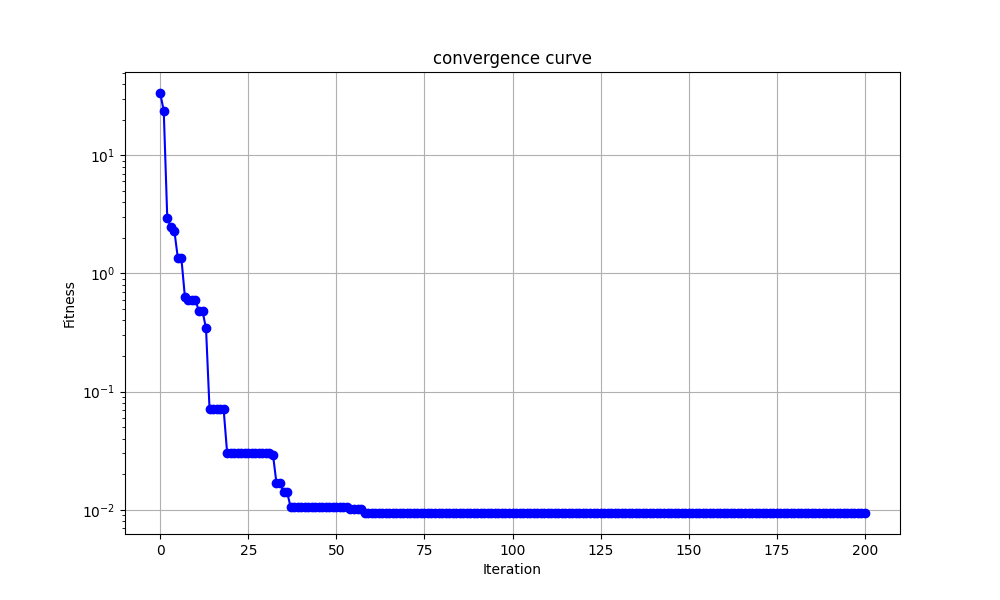
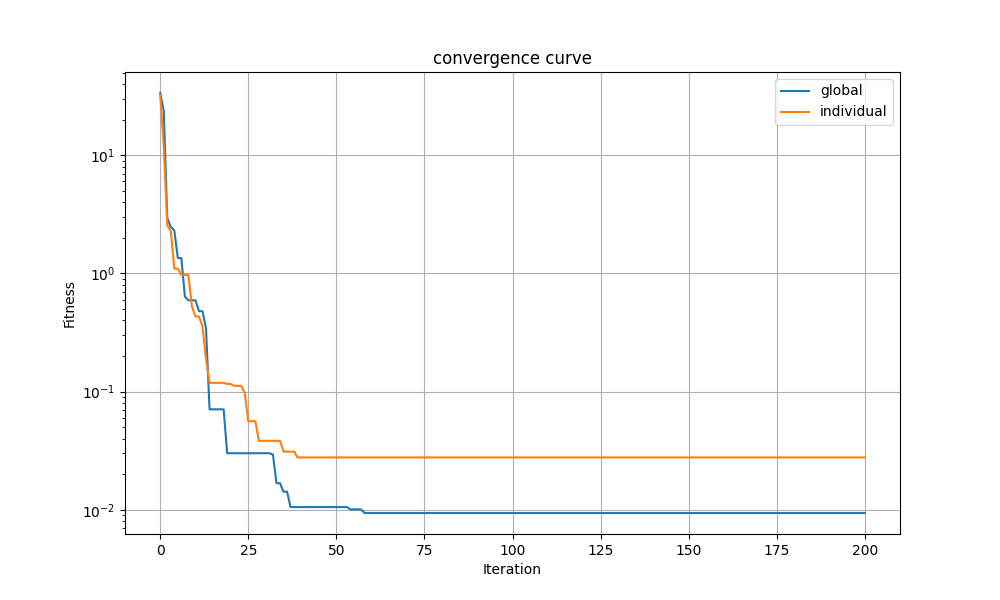
update for 2 mode

Changed region(s): [[0.155, 0.15, 0.868, 0.81], [0.279, 0.81, 0.868, 0.87], [0.775, 0.12, 0.899, 0.21]]

diff --git a/src/benchmark.py b/src/benchmark.py
@@ -20,7 +20,7 @@ def _evaluate_population(population, objective_function):
 
 
 def _run_single(objective_function, n_bats, dim, bounds, iterations,
-                f_min, f_max, alpha, gamma, seed):
+                f_min, f_max, alpha, gamma, seed, behavior_mode):
     if seed is not None:
         np.random.seed(seed)
 
@@ -54,7 +54,7 @@ def _run_single(objective_function, n_bats, dim, bounds, iterations,
                 best_fitness = bat.best_fitness
                 best_solution = bat.best_position.copy()
 
-        update_behavior(population, iteration=iteration, alpha=alpha, gamma=gamma, mode="individual")
+        update_behavior(population, iteration=iteration, alpha=alpha, gamma=gamma, mode=behavior_mode)
         fitness_history.append(best_fitness)
 
     return best_solution, best_fitness, fitness_history
@@ -70,9 +70,11 @@ def benchmark(objective_function=sphere,
               f_max=2.0,
               alpha=0.9,
               gamma=0.9,
+              behavior_mode="individual",
               seed=None,
               plot=True,
-              verbose=True):
+              verbose=True,
+              return_best_history=False):
     run_results = []
 
     for run_idx in range(n_runs):
@@ -88,11 +90,12 @@ def benchmark(objective_function=sphere,
             alpha=alpha,
             gamma=gamma,
             seed=run_seed,
+            behavior_mode=behavior_mode,
         )
         run_results.append((best_solution, best_fitness, fitness_history))
 
         if verbose:
-            print(f"Run {run_idx + 1}/{n_runs} - Best Fitness: {best_fitness:.6e}")
+            print(f"[{behavior_mode}] Run {run_idx + 1}/{n_runs} - Best Fitness: {best_fitness:.6e}")
 
     best_idx = int(np.argmin([result[1] for result in run_results]))
     best_solution, best_fitness, best_history = run_results[best_idx]
@@ -100,7 +103,7 @@ def benchmark(objective_function=sphere,
 
     if verbose:
         print("=" * 60)
-        print(f"Benchmark finished over {n_runs} runs")
+        print(f"Benchmark ({behavior_mode}) finished over {n_runs} runs")
         print(f"Best run index : {best_idx + 1}")
         print(f"Best fitness   : {best_fitness:.6e}")
         print(f"Mean fitness   : {all_fitness.mean():.6e}")
@@ -108,6 +111,60 @@ def benchmark(objective_function=sphere,
         print("=" * 60)
 
     if plot:
-        default_plot_fitness(best_history)
+        default_plot_fitness({behavior_mode: best_history})
+
+    if return_best_history:
+        return best_solution, best_fitness, best_history
 
     return best_solution, best_fitness
+
+
+def benchmark_both_modes(objective_function=sphere,
+                         n_bats=30,
+                         dim=10,
+                         bounds=(-5.0, 5.0),
+                         iterations=1000,
+                         n_runs=10,
+                         f_min=0.0,
+                         f_max=2.0,
+                         alpha=0.9,
+                         gamma=0.9,
+                         seed=None,
+                         plot=True,
+                         verbose=True):
+    mode_results = {}
+    mode_histories = {}
+
+    for mode in ["global", "individual"]:
+        mode_seed = seed if seed is None else seed + (0 if mode == "global" else 10000)
+        best_solution, best_fitness, best_history = benchmark(
+            objective_function=objective_function,
+            n_bats=n_bats,
+            dim=dim,
+            bounds=bounds,
+            iterations=iterations,
+            n_runs=n_runs,
+            f_min=f_min,
+            f_max=f_max,
+            alpha=alpha,
+            gamma=gamma,
+            behavior_mode=mode,
+            seed=mode_seed,
+            plot=False,
+            verbose=verbose,
+            return_best_history=True,
+        )
+        mode_results[mode] = (best_solution, best_fitness)
+        mode_histories[mode] = best_history
+
+    if verbose:
+        print("=" * 60)
+        print("Mode comparison summary")
+        print(f"Global best fitness    : {mode_results['global'][1]:.6e}")
+        print(f"Individual best fitness: {mode_results['individual'][1]:.6e}")
+        print("=" * 60)
+
+    if plot:
+        default_plot_fitness(mode_histories)
+
+    return mode_results

diff --git a/main.py b/main.py
@@ -21,7 +21,7 @@ if __name__ == "__main__":
           T_MAX: {T_MAX}
           """)
     
-    best_solution, best_fitness = bm.benchmark(
+    results = bm.benchmark_both_modes(
         objective_function=sphere,
         n_bats=N_bats,
         dim=dim,
@@ -33,6 +33,11 @@ if __name__ == "__main__":
         verbose=True,
     )
 
-    print(f"Best fitness found: {best_fitness:.6e}")
-    print(f"Best solution (first 5 dims): {best_solution[:5]}")
+    global_solution, global_fitness = results["global"]
+    individual_solution, individual_fitness = results["individual"]
+
+    print(f"[global] Best fitness found: {global_fitness:.6e}")
+    print(f"[global] Best solution (first 5 dims): {global_solution[:5]}")
+    print(f"[individual] Best fitness found: {individual_fitness:.6e}")
+    print(f"[individual] Best solution (first 5 dims): {individual_solution[:5]}")
     

diff --git a/src/matplot_helper.py b/src/matplot_helper.py
@@ -3,11 +3,20 @@
 import matplotlib.pyplot as plt
 
 def plot_fitness(fitness_history):
+    if isinstance(fitness_history, dict):
+        curves = fitness_history
+    else:
+        curves = {"fitness": fitness_history}
+
     plt.figure(figsize=(10, 6))
-    plt.plot(fitness_history, marker='o', linestyle='-', color='b')
+    for label, history in curves.items():
+        plt.plot(history, linestyle='-', label=label)
+
     plt.title('convergence curve')
     plt.xlabel('Iteration')
     plt.ylabel('Fitness')
     plt.yscale('log')  # Log scale for better visibility
     plt.grid(True)
+    if len(curves) > 1:
+        plt.legend()
     plt.show()

diff --git a/README.md b/README.md
@@ -35,9 +35,6 @@ Chương trình sẽ in:
 
 ## Đường cong hội tụ
 
-> Bạn chỉ cần thêm file ảnh sau vào repo để hiển thị trên GitHub:
-> `images/convergence_curve.png`
-
 ![Convergence Curve](images/convergence_curve.png)
 
 ## Gợi ý tinh chỉnh nhanh
